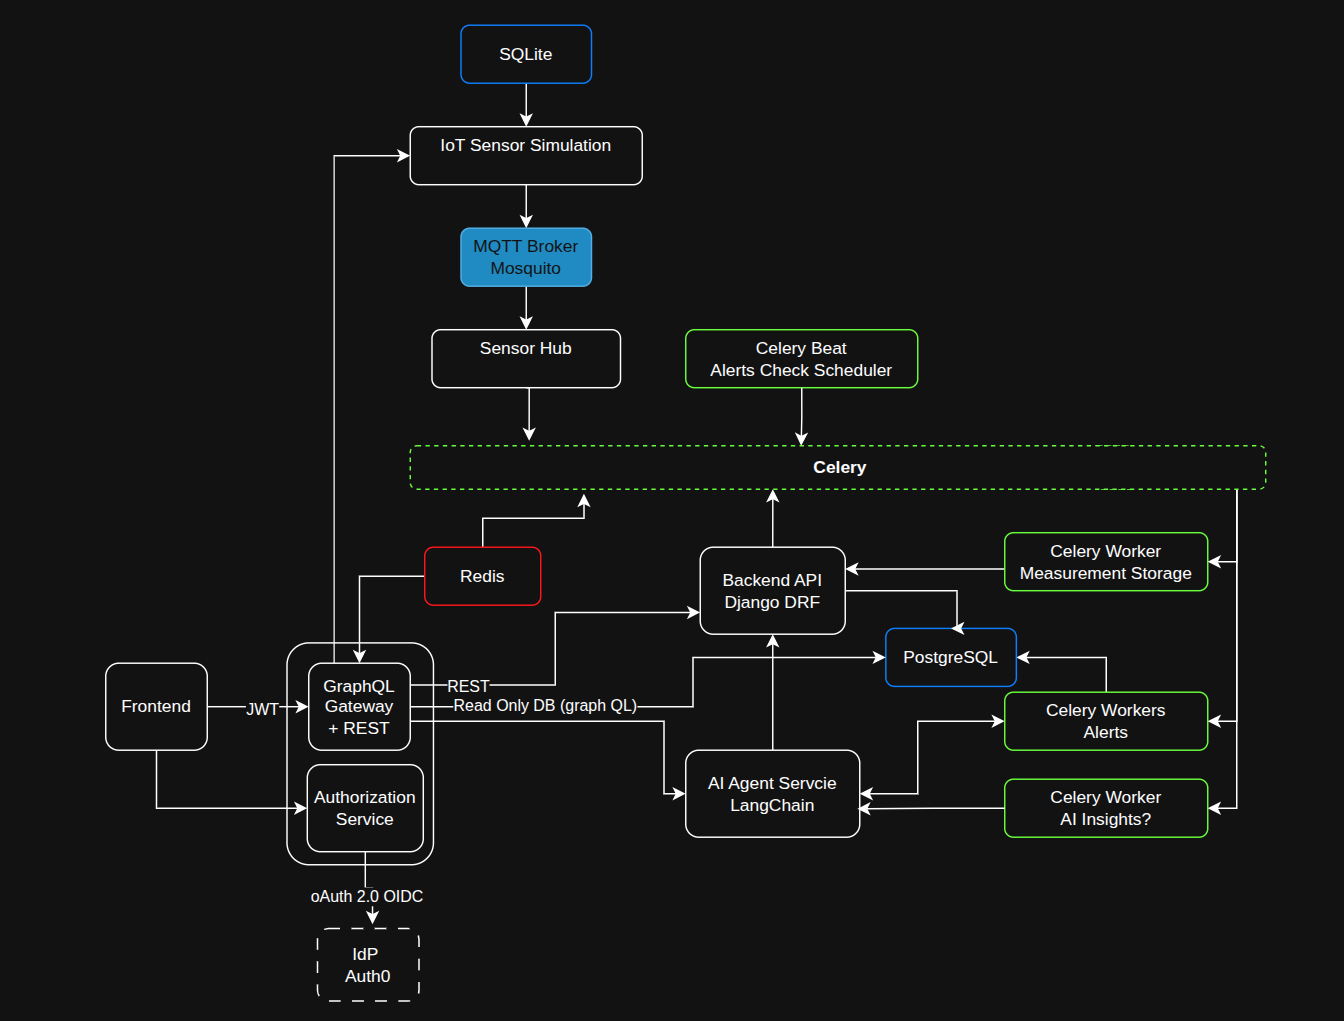
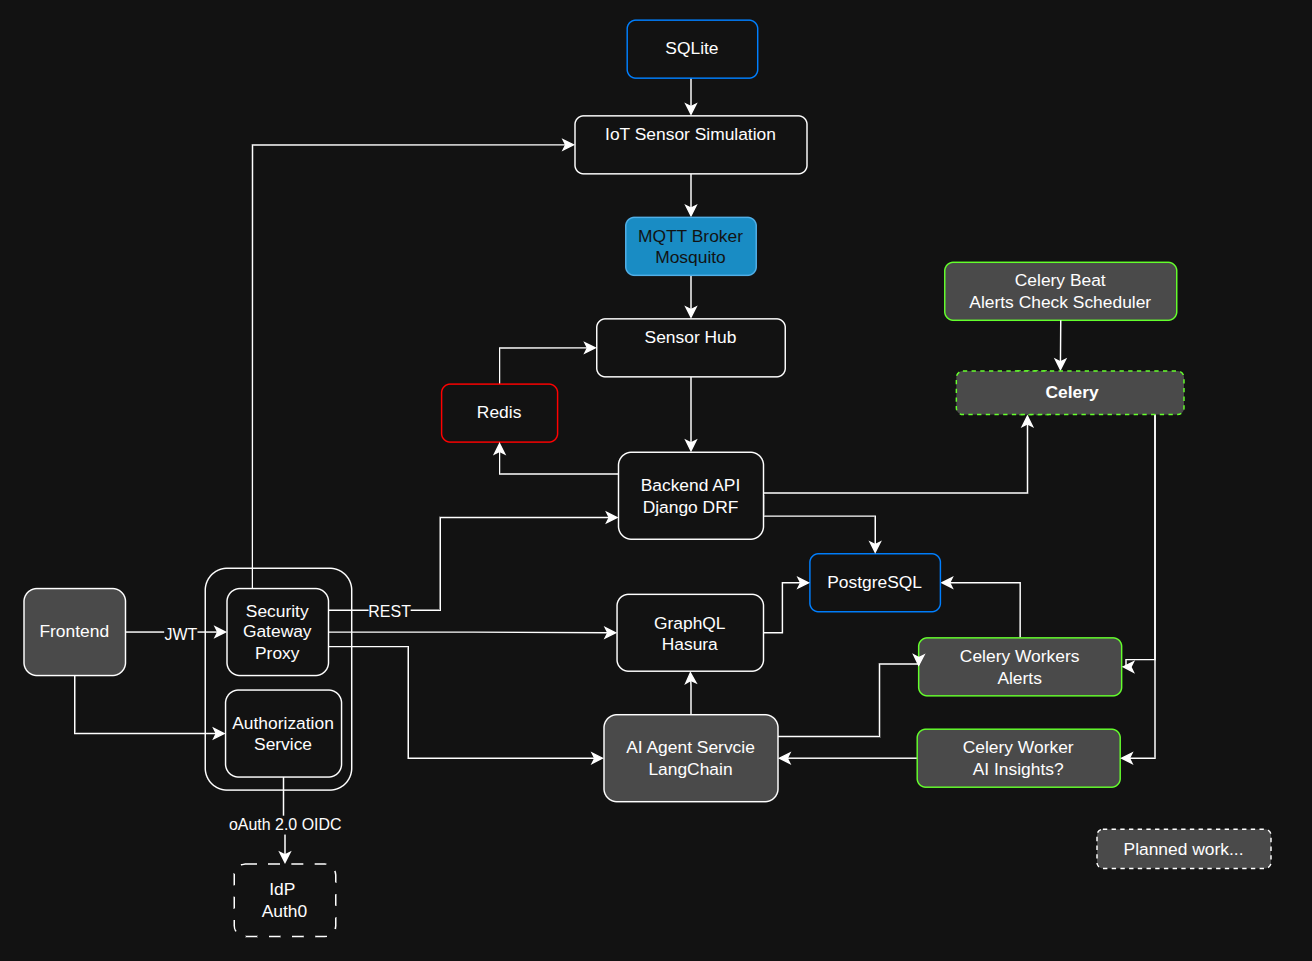
docs: aligned architecture diagram, linked README to sensor hub project

diff --git a/README.md b/README.md
@@ -17,7 +17,7 @@ The platform consists of multiple service repositories:
 
 - [cardio-trace-iot-platform](https://github.com/KrystianTelizyn/cardio-trace-platform) — meta repository with system documentation (GitHub repo: `cardio-trace-platform`). You are here.
 - [cardio-trace-iot-simulation](https://github.com/KrystianTelizyn/cardio-trace-iot-simulation) — **simulates** MQTT device traffic (publishers) for testing and demos.
-- `cardio-trace-sensor-hub` — **ingests** MQTT measurements: validate, normalize, and forward sensor data into the platform.
+- [cardio-trace-sensor-hub](https://github.com/KrystianTelizyn/cardio-trace-sensor-hub) — **ingests** MQTT measurements: validate, normalize, and forward sensor data into the platform.
 - [cardio-trace-iot-backend-api](https://github.com/KrystianTelizyn/cardio-trace-backend-api) — core domain logic and data management.
 - [cardio-trace-graphql](https://github.com/KrystianTelizyn/cardio-trace-graphql) — GraphQL API for the platform. Hasura metadata live in this repo.
 - `cardio-trace-workers` — async processing, alerts, and AI tasks.